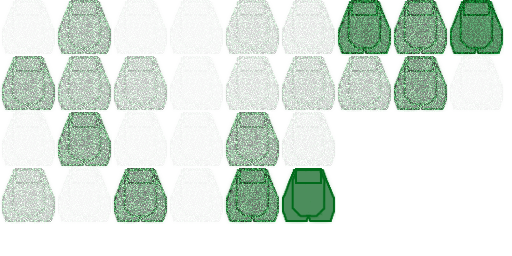
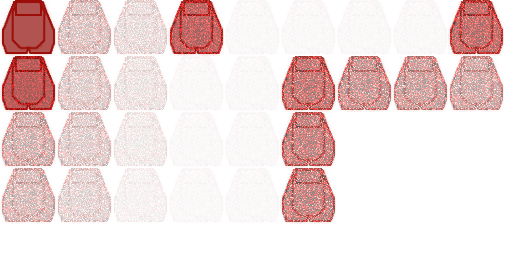
finished crash animations

diff --git a/Classes/Views/MapScene.m b/Classes/Views/MapScene.m
@@ -126,6 +126,7 @@
 - (void)vanishToLine;
 - (void)vanishToLineToPoint;
 - (void)fadeToNoise;
+- (void)spherize;
 // level completed animations
 - (void)runLevelCompletedAnimation;
 - (void)levelCompletedAnimation;
@@ -756,7 +757,7 @@
 //-----------------------------------------------------------------------------------------------------------------------------------
 - (void)crashSpeedHigh {
     [LevelModel setLevel:self.level errorCode:kERROR_CODE_SPEED_HIGH andMessage:kERROR_MSG_SPEED_HIGH];
-    [self fadeToRed];
+    [self spherize];
 }
 
 //-----------------------------------------------------------------------------------------------------------------------------------
@@ -868,7 +869,7 @@
 
 //-----------------------------------------------------------------------------------------------------------------------------------
 - (void)vanish {
-    [self initCrashSprite:@"seeker-1.png"];
+    [self initCrashSprite:@"red-seeker-1.png"];
     [self addChild:self.crash];
 	[self.crash runAction:[CCFadeOut actionWithDuration:kCRASH_DURATION]];
     [self.seeker1 removeFromParentAndCleanup:YES];
@@ -877,7 +878,7 @@
 
 //-----------------------------------------------------------------------------------------------------------------------------------
 - (void)vanishToPoint {
-    [self initCrashSprite:@"seeker-1.png"];
+    [self initCrashSprite:@"red-seeker-1.png"];
     [self addChild:self.crash];
 	[self.crash runAction:[CCScaleTo actionWithDuration:kCRASH_DURATION scale:0.0]];
     [self.seeker1 removeFromParentAndCleanup:YES];
@@ -886,7 +887,7 @@
 
 //-----------------------------------------------------------------------------------------------------------------------------------
 - (void)vanishToLine {
-    [self initCrashSprite:@"seeker-1.png"];
+    [self initCrashSprite:@"red-seeker-1.png"];
     [self addChild:self.crash];
     CGFloat scaleFactor = 1.0;
     if (self.mapZoomedOut) {
@@ -899,7 +900,7 @@
 
 //-----------------------------------------------------------------------------------------------------------------------------------
 - (void)vanishToLineToPoint {
-    [self initCrashSprite:@"seeker-1.png"];
+    [self initCrashSprite:@"red-seeker-1.png"];
     [self addChild:self.crash];
     CGFloat scaleFactor = 1.0;
     if (self.mapZoomedOut) {
@@ -915,6 +916,14 @@
 //-----------------------------------------------------------------------------------------------------------------------------------
 - (void)fadeToNoise {
     [self initCrashAnimatedSprite:@"noise" withFrameCount:20 andDelay:kCRASH_ANIMATION_DURATION];
+    [self addChild:self.crash];
+    [self.seeker1 removeFromParentAndCleanup:YES];
+    self.crashAnimationCounter = self.counter;
+}
+
+//-----------------------------------------------------------------------------------------------------------------------------------
+- (void)spherize {
+    [self initCrashAnimatedSprite:@"spherize" withFrameCount:12 andDelay:kCRASH_ANIMATION_DURATION];
     [self addChild:self.crash];
     [self.seeker1 removeFromParentAndCleanup:YES];
     self.crashAnimationCounter = self.counter;
